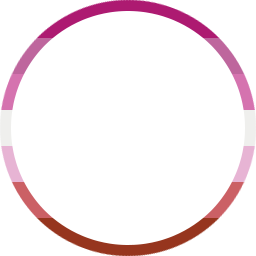
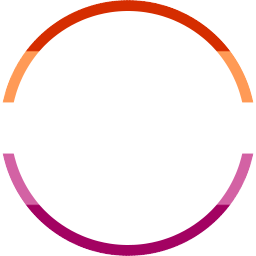
4.4.7

Changed region(s): [[0.0, 0.5625, 1.0, 1.0], [0.0, 0.0, 1.0, 0.4375]]

diff --git a/src/commands/images/pride.js b/src/commands/images/pride.js
@@ -11,8 +11,17 @@ function pride(client, evt, suffix, lang) {
   let data = getImageLink(client, evt, suffix, true);
 
   let flagSuffix = suffix.split(' ')[0];
-  let flagArray = ['ace', 'bisexual', 'genderfluid', 'genderqueer', 'lesbian', 'nonbinary', 'pansexual', 'rainbow', 'transgender'];
+
+  if (flagSuffix === 'gay') flagSuffix = 'rainbow';
+  if (flagSuffix === 'bi') flagSuffix = 'bisexual';
+  if (flagSuffix === 'pan') flagSuffix = 'pansexual';
+  if (flagSuffix === 'trans') flagSuffix = 'transgender';
+  if (flagSuffix === 'enby') flagSuffix = 'nonbinary';
+  if (flagSuffix === 'ally') flagSuffix = 'straightally';
+
+  let flagArray = ['ace', 'bear', 'bisexual', 'genderfluid', 'genderqueer', 'lesbian', 'nonbinary', 'pansexual', 'rainbow', 'straight', 'straightally', 'transgender'];
   let validSuffix = (flagArray.indexOf(flagSuffix) > -1);
+  let doStraight = suffix.includes('straight');
   let doBorder = suffix.includes('border');
   let doRotate = suffix.includes('rotate');
   let doOverlay = suffix.includes('overlay');
@@ -36,7 +45,7 @@ function pride(client, evt, suffix, lang) {
   let gayput = fileDir + '/flags/pride_' + prideFlag + '.png';
   let output = fileDir + '/tmp/pride-' + evt.message.author.id + '.png';
 
-  if (!doOverlay && !doBackground) {
+  if (!doOverlay && !doBackground && !doStraight) {
     return new Promise((resolve, reject) => {
       gm(request(image))
       .resize('236', '236')
@@ -72,7 +81,7 @@ function pride(client, evt, suffix, lang) {
     });
   }
 
-  if (doOverlay) {
+  if (doStraight || doOverlay) {
     return new Promise((resolve, reject) => {
       gm(request(image))
       .resize('256', '256')

diff --git a/CHANGELOG.md b/CHANGELOG.md
@@ -1,3 +1,12 @@
+<a name="4.4.7" />
+
+# 4.4.7 (June 18th, 2019)
+
+### Pride Additions
+- [NEW] Added Straight Ally and Bear Flags, Updated Lesbian Flag.
+- [NEW] Added aliases to some flags: `enby`, `gay`, `trans`, `bi`, `ally` and `pan`.
+
+
 <a name="4.4.6" />
 
 # 4.4.6 (March 28th, 2019)
